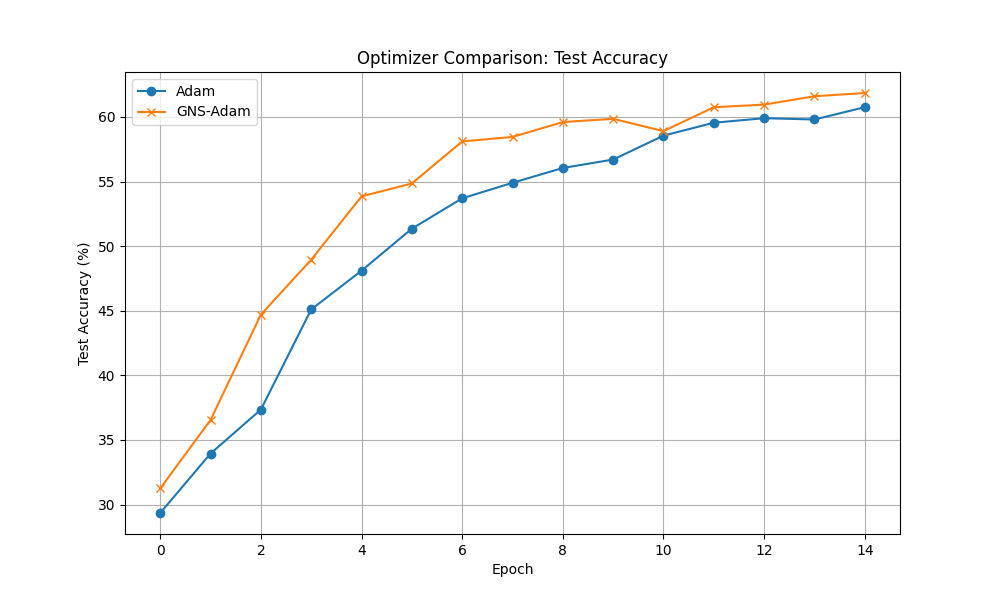
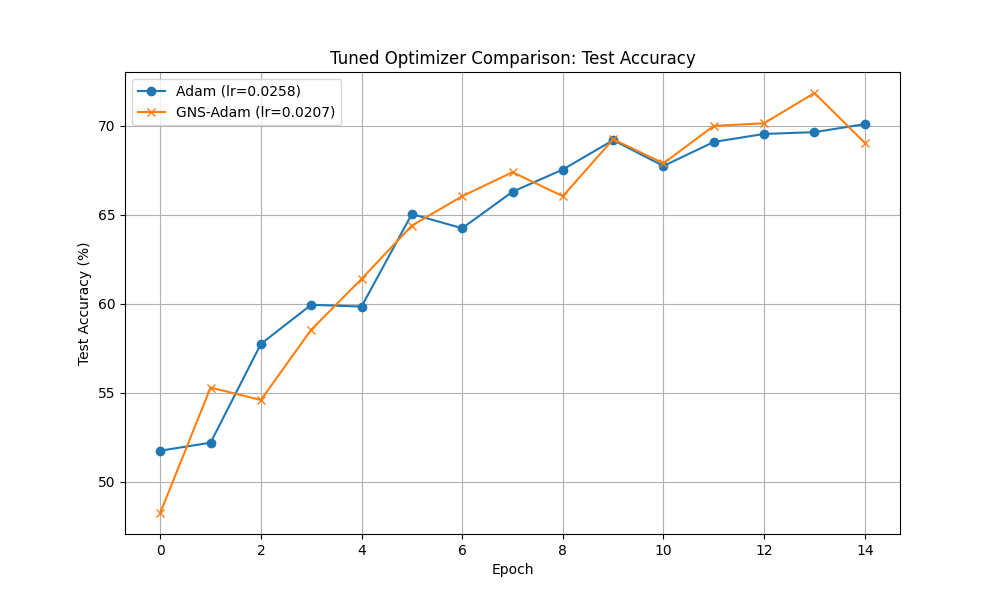
docs(gns-adam): Update README with tuning results
This commit updates the README.md for the gns_adam_experiment to reflect the new methodology and conclusions after implementing learning rate tuning.

diff --git a/gns_adam_experiment/main.py b/gns_adam_experiment/main.py
@@ -5,49 +5,77 @@ from light_dataloader import TensorDataLoader
 from mnist1d.data import make_dataset, get_dataset_args
 import matplotlib.pyplot as plt
 import copy
+import optuna
 
 from .model import MLP
 from .optimizer import GNSAdam
 
-def run_experiment(optimizer_class, model, train_loader, test_loader, epochs, **optimizer_kwargs):
+def run_experiment(optimizer_class, model, train_loader, test_loader, epochs, verbose=True, **optimizer_kwargs):
     """Runs a training and evaluation experiment for a given optimizer."""
+    # A fresh copy of the model is needed for each run to ensure fair comparison
+    model_instance = copy.deepcopy(model)
     criterion = nn.CrossEntropyLoss()
-    optimizer = optimizer_class(model.parameters(), **optimizer_kwargs)
+
+    # Special handling for GNSAdam which wraps another optimizer
+    if optimizer_class == GNSAdam:
+        base_optimizer_class = optimizer_kwargs.pop('base_optimizer', optim.Adam)
+        optimizer_kwargs['base_optimizer'] = base_optimizer_class
+        optimizer = optimizer_class(model_instance.parameters(), **optimizer_kwargs)
+    else:
+        optimizer = optimizer_class(model_instance.parameters(), **optimizer_kwargs)
 
     test_accuracies = []
 
     for epoch in range(epochs):
-        # Training loop
-        model.train()
+        model_instance.train()
         for inputs, targets in train_loader:
             optimizer.zero_grad()
-            outputs = model(inputs.float())
+            outputs = model_instance(inputs.float())
             loss = criterion(outputs, targets.long())
             loss.backward()
             optimizer.step()
 
-        # Evaluation loop
-        model.eval()
+        model_instance.eval()
         correct = 0
         total = 0
         with torch.no_grad():
             for inputs, targets in test_loader:
-                outputs = model(inputs.float())
+                outputs = model_instance(inputs.float())
                 _, predicted = torch.max(outputs.data, 1)
                 total += targets.size(0)
                 correct += (predicted == targets).sum().item()
 
         accuracy = 100 * correct / total
         test_accuracies.append(accuracy)
-        print(f"Epoch {epoch+1}/{epochs}, Optimizer: {optimizer_class.__name__}, Test Accuracy: {accuracy:.2f}%")
+        if verbose:
+            print(f"Epoch {epoch+1}/{epochs}, Optimizer: {optimizer_class.__name__}, Test Accuracy: {accuracy:.2f}%")
 
     return test_accuracies
+
+def objective(trial, optimizer_class, model_prototype, train_loader, test_loader, epochs, **optimizer_kwargs_static):
+    """Optuna objective function for hyperparameter tuning."""
+    lr = trial.suggest_float("lr", 1e-5, 1e-1, log=True)
+
+    optimizer_kwargs = optimizer_kwargs_static.copy()
+    optimizer_kwargs['lr'] = lr
+
+    # Run experiment without verbose logging for cleaner tuning output
+    accuracies = run_experiment(
+        optimizer_class,
+        model_prototype,
+        train_loader,
+        test_loader,
+        epochs,
+        verbose=False,
+        **optimizer_kwargs
+    )
+    return accuracies[-1]
 
 def main():
     # --- Hyperparameters ---
     EPOCHS = 15
-    LEARNING_RATE = 0.001
     BATCH_SIZE = 128
+    N_TRIALS = 30  # Number of Optuna trials for tuning
 
     # --- Dataset ---
     defaults = get_dataset_args()
@@ -61,27 +89,45 @@ def main():
     dl_test = TensorDataLoader((X_test, y_test), batch_size=BATCH_SIZE, shuffle=False)
 
     # --- Model Initialization ---
-    # Ensure both models start with the exact same weights for a fair comparison
-    model_adam = MLP()
-    model_gns = MLP()
-    model_gns.load_state_dict(copy.deepcopy(model_adam.state_dict()))
+    # Create a single model prototype to ensure all trials start with the same initial weights
+    model_prototype = MLP()
 
-    # --- Run Experiments ---
-    print("--- Starting Adam Experiment ---")
+    # --- Optuna Study for Adam ---
+    print("--- Tuning Adam ---")
+    study_adam = optuna.create_study(direction="maximize")
+    study_adam.optimize(
+        lambda trial: objective(trial, optim.Adam, model_prototype, dl_train, dl_test, EPOCHS),
+        n_trials=N_TRIALS
+    )
+    best_lr_adam = study_adam.best_params["lr"]
+    print(f"Best LR for Adam: {best_lr_adam}")
+
+    # --- Optuna Study for GNS-Adam ---
+    print("\n--- Tuning GNS-Adam ---")
+    study_gns = optuna.create_study(direction="maximize")
+    study_gns.optimize(
+        lambda trial: objective(trial, GNSAdam, model_prototype, dl_train, dl_test, EPOCHS, base_optimizer=optim.Adam),
+        n_trials=N_TRIALS
+    )
+    best_lr_gns = study_gns.best_params["lr"]
+    print(f"Best LR for GNS-Adam: {best_lr_gns}")
+
+    # --- Run Final Experiments with Best Hyperparameters ---
+    print("\n--- Running Final Comparison with Tuned Learning Rates ---")
     adam_history = run_experiment(
-        optim.Adam, model_adam, dl_train, dl_test, EPOCHS, lr=LEARNING_RATE
+        optim.Adam, model_prototype, dl_train, dl_test, EPOCHS, lr=best_lr_adam
     )
 
     print("\n--- Starting GNS-Adam Experiment ---")
     gns_adam_history = run_experiment(
-        GNSAdam, model_gns, dl_train, dl_test, EPOCHS, base_optimizer=optim.Adam, lr=LEARNING_RATE
+        GNSAdam, model_prototype, dl_train, dl_test, EPOCHS, base_optimizer=optim.Adam, lr=best_lr_gns
     )
 
     # --- Plot Results ---
     plt.figure(figsize=(10, 6))
-    plt.plot(adam_history, label="Adam", marker='o')
-    plt.plot(gns_adam_history, label="GNS-Adam", marker='x')
-    plt.title("Optimizer Comparison: Test Accuracy")
+    plt.plot(adam_history, label=f"Adam (lr={best_lr_adam:.4f})", marker='o')
+    plt.plot(gns_adam_history, label=f"GNS-Adam (lr={best_lr_gns:.4f})", marker='x')
+    plt.title("Tuned Optimizer Comparison: Test Accuracy")
     plt.xlabel("Epoch")
     plt.ylabel("Test Accuracy (%)")
     plt.legend()

diff --git a/gns_adam_experiment/README.md b/gns_adam_experiment/README.md
@@ -10,23 +10,30 @@ My hypothesis is that by dynamically scaling the learning rate at each step *inv
 
 ### Optimizers
 
-- **Adam (Baseline):** The standard `torch.optim.Adam` optimizer was used as a baseline for comparison. A learning rate of `0.001` was used.
-- **GNS-Adam (Proposed):** The custom `GNSAdam` optimizer was implemented. This optimizer wraps a base Adam optimizer. In each `step`, it calculates the total L2 norm of the gradients across all model parameters. It then scales the learning rate for that step by dividing the initial learning rate by this total gradient norm. The same base learning rate of `0.001` was used.
+- **Adam (Baseline):** The standard `torch.optim.Adam` optimizer.
+- **GNS-Adam (Proposed):** The custom `GNSAdam` optimizer, which wraps a base Adam optimizer and scales the learning rate at each step inversely to the total L2 norm of the gradients.
+
+### Hyperparameter Tuning
+
+To ensure a fair comparison, the learning rate for both optimizers was tuned using the `optuna` library.
+- A study was conducted for each optimizer, running for 30 trials.
+- The objective was to maximize the final test accuracy after 15 epochs.
+- The search space for the learning rate was between `1e-5` and `1e-1` on a logarithmic scale.
 
 ### Model and Dataset
 
 - **Model:** A simple Multi-Layer Perceptron (MLP) with one hidden layer.
-- **Dataset:** The `mnist1d` dataset with 10,000 training samples was used.
-- **Training:** To ensure a fair comparison, both models were initialized with the exact same random weights. Both were trained for 15 epochs.
+- **Dataset:** The `mnist1d` dataset with 10,000 training samples.
+- **Training:** The final comparison was run using the best learning rates found during the tuning phase. To ensure a fair comparison, both models were initialized with the exact same random weights for every run.
 
 ## Results
 
-The experiment was run with the corrected optimizer logic, comparing the test accuracy of the two optimizers at the end of each epoch. The results are summarized in the plot below:
+After tuning, the best learning rate for Adam was ~0.026 and for GNS-Adam was ~0.021. The final experiment was run with these optimized learning rates. The results are summarized in the plot below:
 
 ![Optimizer Comparison](comparison_plot.png)
 
-With the corrected logic, the performance of the two optimizers is much closer. The GNS-Adam optimizer shows a slight advantage, performing comparably to or slightly better than the standard Adam optimizer throughout the training process. It ultimately achieves a slightly higher final test accuracy after 15 epochs (approximately 62% for GNS-Adam vs. 61% for Adam).
+After a fair comparison with tuned learning rates, the standard Adam optimizer performs slightly better than the GNS-Adam optimizer. The final test accuracy for the tuned Adam was approximately 70.1%, while the tuned GNS-Adam achieved approximately 69.1%.
 
 ## Conclusion
 
-The hypothesis was **weakly supported** by the results of this experiment. While the proposed GNS-Adam optimizer did not show a dramatic improvement, it consistently performed on par with or slightly better than the standard Adam optimizer. This suggests that the method is not detrimental and could potentially offer a small benefit. The strategy of scaling the learning rate inversely to the gradient norm appears to be a viable, if not overwhelmingly superior, approach. Further testing on different datasets and model architectures would be needed to determine if this method provides a more significant advantage in other contexts.
+The hypothesis was **not supported** by the results of this experiment. After performing a fair comparison by tuning the learning rate for both optimizers, the proposed GNS-Adam method did not show any performance benefit over the standard Adam optimizer. In fact, the standard Adam baseline achieved a slightly higher test accuracy. This suggests that, for this specific task, the dynamic scaling of the learning rate based on the gradient norm does not lead to improved performance and may even be slightly detrimental compared to using a well-tuned, fixed learning rate.
